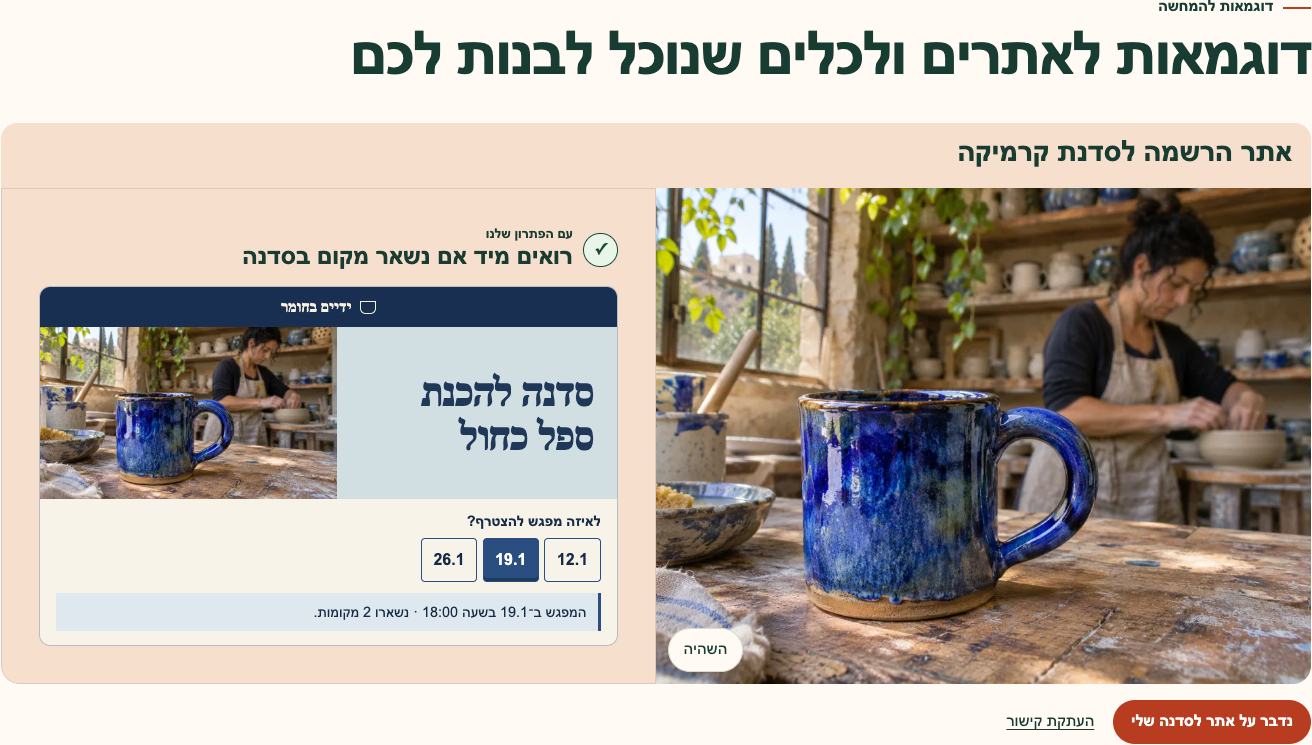
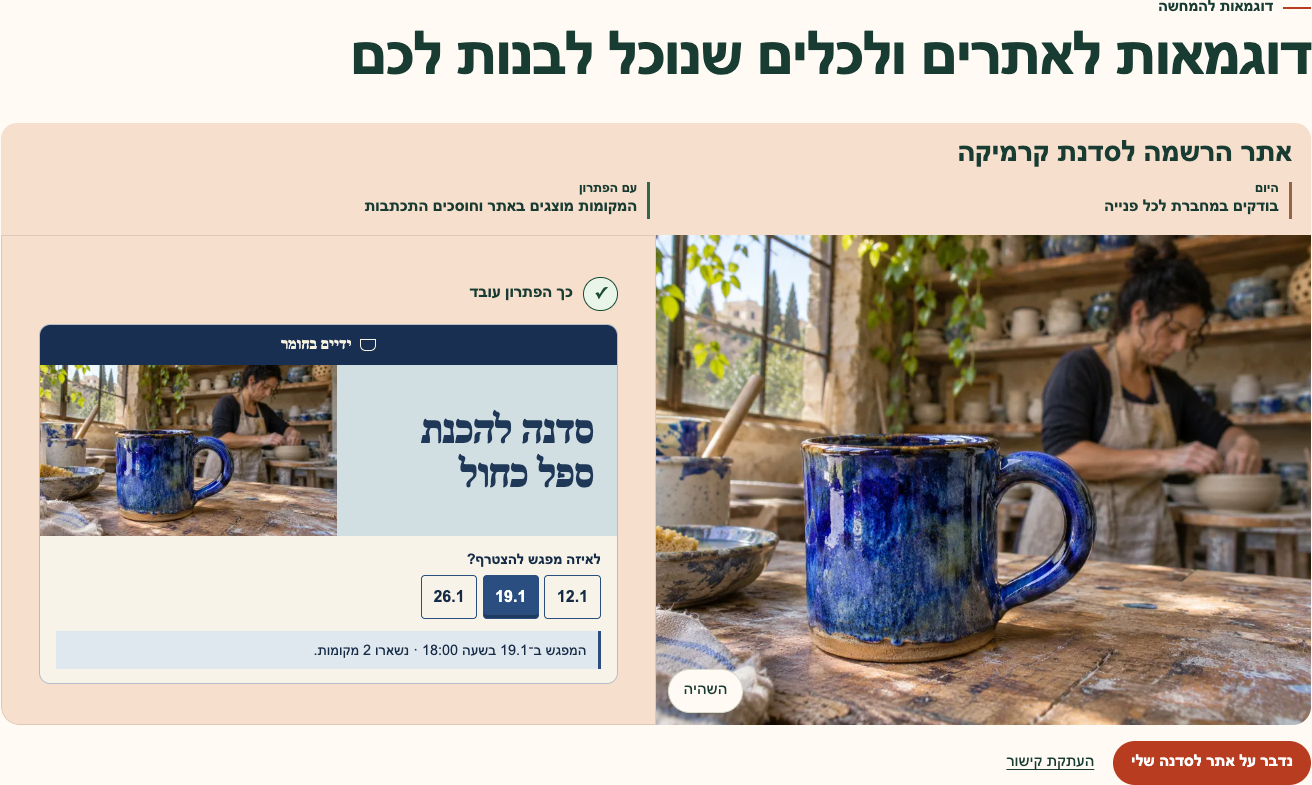
Keep the problem and business benefit visible throughout each gallery story

diff --git a/dist/gallery-stories.js b/dist/gallery-stories.js
@@ -281,76 +281,76 @@
   window.RABEN_STORIES = [
     {
       id: 'ceramics', category: 'clients', title: 'אתר הרשמה לסדנת קרמיקה',
-      ...problem('chat', 'הודעות לסטודיו', 'כל הרשמה מתחילה בהתכתבות', 'רואים מיד אם נשאר מקום בסדנה', [
+      ...problem('chat', 'הודעות לסטודיו', 'בודקים במחברת לכל פנייה', 'המקומות מוצגים באתר וחוסכים התכתבות', [
         ['רוני', 'יש מקום לשניים ב־19.1?'],
         ['בעלת הסטודיו', 'רגע, אני בודקת במחברת.']
       ]),
-      alt: 'ספל קרמיקה בזיגוג כחול בסטודיו', caption: 'המשתתפים רואים באילו מפגשים נשאר מקום. לבעלת הסדנה יש פחות הודעות לענות עליהן לפני כל הרשמה.',
+      alt: 'ספל קרמיקה בזיגוג כחול בסטודיו',
       cta: 'נדבר על אתר לסדנה שלי', kind: website, interest: 'אתר לסדנה עם בחירת מועד', ...pottery
     },
     {
       id: 'bakery', category: 'clients', title: 'עמוד להזמנת עוגה ממאפייה ביתית',
-      ...problem('note', 'פתק הזמנה על השיש', 'כל עוגה דורשת בירור מחיר', 'הגודל והמחיר ברורים עוד לפני הפנייה', [
+      ...problem('note', 'פתק הזמנה על השיש', 'מחשבים גודל ומחיר לכל פנייה', 'הלקוחות רואים מחיר לפי מספר האורחים', [
         ['יום הולדת', 'עוגת תותים ל־12 אורחים'],
         ['נשאר לברר', 'איזה קוטר? וכמה זה יעלה?']
       ]),
-      alt: 'עוגת תותים במאפייה', caption: 'הלקוחות בוחרים לכמה אורחים מיועדת העוגה ורואים מיד את הגודל והמחיר, עוד לפני שפונים לאופה.',
+      alt: 'עוגת תותים במאפייה',
       cta: 'נדבר על אתר למוצרים שלי', kind: website, interest: 'עמוד מוצרים עם בחירת גודל ומחיר', ...cake
     },
     {
       id: 'guitar', category: 'clients', title: 'אתר לקביעת שיעור גיטרה',
-      ...problem('diary', 'היומן של המורה', 'קשה לתאם שיעור לשניים', 'שעות פנויות לשיעור זוגי מופיעות מיד', [
+      ...problem('diary', 'היומן של המורה', 'מחליפים הודעות כדי למצוא שעה', 'התלמידים מוצאים שעה פנויה ביומן', [
         ['שני, 16:00', 'שיעור אישי'],
         ['שיעור ראשון בזוג', 'איזה ערב פנוי לשנינו?']
       ]),
-      alt: 'גיטרה בשיעור נגינה', caption: 'התלמידים בוחרים סוג שיעור ורואים מתי המורה פנוי. כך קל למצוא שעה שמתאימה לשני הצדדים.',
+      alt: 'גיטרה בשיעור נגינה',
       cta: 'נדבר על אתר לשיעורים שלי', kind: website, interest: 'אתר לשיעורים עם הצגת שעות פנויות', ...lesson
     },
     {
       id: 'technician', category: 'work', title: 'יומן ביקורי בית לטכנאית',
-      ...problem('diary', 'דף הביקורים ברכב', 'הביקור הבא מסתתר בהודעות', 'מסיימים תיקון ורואים מיד לאן להמשיך', [
+      ...problem('diary', 'דף הביקורים ברכב', 'מחפשים בהודעות את פרטי הביקור', 'פרטי הביקור הבא כבר ביומן', [
         ['09:00 · לוי', 'מכונת הכביסה תוקנה ✓'],
         ['משפחת כהן', 'השעה בהודעה קולית. איזו משאבה צריך לבדוק?']
       ]),
-      alt: 'טכנאית בודקת מכונת כביסה בביקור בית', caption: 'בסיום תיקון הטכנאית מסמנת שהביקור הושלם. היומן מראה לה לאן להמשיך ובאיזו שעה להגיע.',
+      alt: 'טכנאית בודקת מכונת כביסה בביקור בית',
       cta: 'נדבר על יומן לעבודה שלי', kind: tool, interest: 'יומן לניהול ביקורים בשטח', ...visits
     },
     {
       id: 'community', category: 'work', title: 'מעקב אחרי פניות למרכז קהילתי',
-      ...problem('inbox', 'פתק לחילופי משמרת', 'לא ברור למי כבר חזרו', 'רק הפניות שמחכות למענה נשארות ברשימה', [
+      ...problem('inbox', 'פתק לחילופי משמרת', 'בכל משמרת בודקים למי כבר חזרו', 'הצוות רואה בדיוק למי נשאר לחזור', [
         ['נועה · ציור', 'מחכה לפרטי הרשמה'],
         ['יואב · כדורגל', 'דיברנו איתו אתמול?'],
         ['סיוון · מחול', 'שאלה אם נשאר מקום']
       ]),
-      alt: 'פעילות במרכז קהילתי', caption: 'כשמתחלפת משמרת, הצוות רואה אילו הורים עדיין מחכים לתשובה על חוג ולמי כבר חזרו.',
+      alt: 'פעילות במרכז קהילתי',
       cta: 'נדבר על מעקב אחרי פניות', kind: tool, interest: 'מעקב אחרי פניות שממתינות לתשובה', ...inbox
     },
     {
       id: 'volunteer', category: 'work', title: 'לוח משימות לחלוקת סלי מזון',
-      ...problem('chat', 'קבוצת החלוקה', 'ארגזי הירקות מחכים לאיסוף', 'כולם רואים מי אחראי לאיסוף', [
+      ...problem('chat', 'קבוצת החלוקה', 'מבררים בקבוצה מי יאסוף את הארגזים', 'שם המתנדב מופיע ליד המשימה', [
         ['רכזת החלוקה', 'מי אוסף את הארגזים בחמישי ב־17:00?'],
         ['יעל', 'אני בחלוקה. מישהו לקח את האיסוף?']
       ]),
-      alt: 'מתנדבים עם ארגזי ירקות לחלוקה', caption: 'הרכזת משבצת מתנדב לאיסוף ארגזים. כולם רואים מי אחראי ומה עוד נשאר לעשות.',
+      alt: 'מתנדבים עם ארגזי ירקות לחלוקה',
       cta: 'נדבר על שיבוץ בצוות שלי', kind: tool, interest: 'כלי לשיבוץ מתנדבים ומשמרות', ...assign
     },
     {
       id: 'study', category: 'ideas', title: 'אפליקציה למציאת שותף ללימוד',
-      ...problem('note', 'מודעות לשותפים ללימוד', 'המקצוע מתאים אבל השעה לא', 'מוצאים שותף לאנגלית שפנוי בערב', [
+      ...problem('note', 'מודעות לשותפים ללימוד', 'מחפשים שותף בין מודעות לא מתאימות', 'מקבלים התאמה לפי מקצוע ושעה', [
         ['אנגלית', 'אפשר לתרגל איתי בבוקר'],
         ['פנוי בערב', 'מחפש שותף למתמטיקה']
       ]),
-      alt: 'חוברת תרגול אנגלית במפגש לימוד', caption: 'רוצים לתרגל אנגלית בערב? האפליקציה מציעה מישהו שרוצה ללמוד אותו דבר ופנוי באותן שעות.',
+      alt: 'חוברת תרגול אנגלית במפגש לימוד',
       cta: 'נדבר על הרעיון שלי', kind: product, interest: 'אפליקציה להתאמה בין אנשים', ...match
     },
     {
       id: 'hiking', category: 'ideas', title: 'כלי לבחירת מועד לטיול עם חברים',
-      ...problem('chat', 'קבוצת הטיול', 'קשה לספור מי מגיע באיזה יום', 'רואים מיד אם יש יום מוביל או תיקו', [
+      ...problem('chat', 'קבוצת הטיול', 'סופרים תשובות בצ׳אט ביד', 'ההצבעה מסכמת כמה פנויים בכל יום', [
         ['טל', 'לי מתאים שישי'],
         ['אורי', 'כתבתי חמישי, בעצם שבת'],
         ['דנה', 'אז כמה אנחנו בכל יום?']
       ]),
-      alt: 'מטיילים נעזרים במפת שבילים', caption: 'כל אחד מצביע ליום שנוח לו. הקבוצה רואה איזה יום מתאים לרוב החברים וחוסכת את ספירת התשובות בצ׳אט.',
+      alt: 'מטיילים נעזרים במפת שבילים',
       cta: 'נדבר על כלי לקבוצה שלי', kind: product, interest: 'רעיון להצבעות ותיאום בקבוצה', ...poll
     }
   ];

diff --git a/dist/index.html b/dist/index.html
@@ -97,7 +97,10 @@
       <article aria-labelledby="current-story-title">
         <header class="story-intro">
           <h3 data-gallery-title id="current-story-title"></h3>
-          <p class="journey-sr" data-gallery-caption></p>
+          <dl class="story-change">
+            <div><dt>היום</dt><dd data-gallery-issue></dd></div>
+            <div><dt>עם הפתרון</dt><dd data-gallery-outcome></dd></div>
+          </dl>
         </header>
         <div class="gallery-pair">
           <div class="gallery-picture">
@@ -106,11 +109,11 @@
           </div>
           <div class="gallery-stage phase-stage">
             <div class="phase-frame phase-before">
-              <div class="phase-heading"><span class="phase-symbol" aria-hidden="true">?</span><div><small>לפני</small><h4 data-gallery-issue></h4></div></div>
+              <div class="phase-heading"><span class="phase-symbol" aria-hidden="true">?</span><strong>כך זה נראה היום</strong></div>
               <div data-gallery-problem></div>
             </div>
             <div class="phase-frame phase-after">
-              <div class="phase-heading"><span class="phase-symbol" aria-hidden="true">✓</span><div><small>עם הפתרון שלנו</small><h4 data-gallery-outcome></h4></div></div>
+              <div class="phase-heading"><span class="phase-symbol" aria-hidden="true">✓</span><strong>כך הפתרון עובד</strong></div>
               <div data-gallery-demo></div>
             </div>
           </div>
@@ -125,7 +128,10 @@
     <div data-gallery-static>
       <header class="story-intro">
         <h3>אתר הרשמה לסדנת קרמיקה</h3>
-
+          <dl class="story-change">
+            <div><dt>היום</dt><dd>בודקים במחברת לכל פנייה</dd></div>
+            <div><dt>עם הפתרון</dt><dd>המקומות מוצגים באתר וחוסכים התכתבות</dd></div>
+          </dl>
       </header>
       <div class="gallery-pair">
         <div class="gallery-picture"><img loading="lazy" src="assets/gallery/ceramics-small.webp" width="460" height="345" alt="ספל עם זיגוג כחול על שולחן העבודה בסדנת קרמיקה"></div>

diff --git a/dist/gallery.css b/dist/gallery.css
@@ -21,7 +21,25 @@
   background: var(--stage);
   border-radius: 1rem 1rem 0 0;
 }
-.story-intro p { margin-block-start: .35rem; line-height: 1.5; max-width: 70ch; text-wrap: pretty; }
+.story-change {
+  display: grid;
+  grid-template-columns: repeat(2, minmax(0, 1fr));
+  gap: .7rem;
+  margin: .65rem 0 0;
+}
+.story-change > div { padding-inline-start: .65rem; border-inline-start: 3px solid #946446; }
+.story-change > div:last-child { border-color: #2f6750; }
+.story-change dt { font-size: .83rem; font-weight: 700; }
+.story-change dd { margin: .15rem 0 0; line-height: 1.3; font-weight: 600; text-wrap: pretty; }
+@media (max-width: 720px) and (min-height: 460px) {
+  [data-gallery-enhanced] article > .story-intro {
+    position: sticky;
+    inset-block-start: 0;
+    z-index: 2;
+    border-bottom: 1px solid var(--stage-rule);
+  }
+  #story-gallery :is(button, a) { scroll-margin-block-start: 10rem; }
+}
 .gallery-play {
   position: absolute;
   inset-inline-end: .75rem;
@@ -73,8 +91,7 @@
 .phase-stage { align-items: center; }
 .phase-frame { grid-area: 1 / 1; min-width: 0; }
 .phase-heading { display: flex; align-items: center; gap: .65rem; margin-block-end: .8rem; }
-.phase-heading small { font-weight: 700; }
-.phase-heading h4 { margin: .12rem 0 0; font-size: clamp(1.1rem, 2vw, 1.55rem); line-height: 1.15; }
+.phase-heading strong { font-size: 1rem; }
 .phase-symbol { display: grid; place-items: center; width: 2.15rem; aspect-ratio: 1; flex: none; border: 1px solid; font-weight: 700; }
 .phase-before .phase-symbol { color: #78391e; background: #fff6e7; border-radius: .4rem; }
 .phase-after .phase-symbol { color: #174c32; background: #e8f5e8; border-radius: 50%; }

diff --git a/tests/gallery.browser.js b/tests/gallery.browser.js
@@ -38,11 +38,20 @@ async previewTab => {
       assert(await gallery.getAttribute('data-phase') === 'problem', 'Missing initial problem: ' + id);
       assert(await control('problem').isVisible() && !await control('demo').isVisible(), 'Problem frame not isolated: ' + id);
       assert((await control('problem').innerText()).trim().length > 0, 'Problem is empty: ' + id);
+      const issue = await control('issue').innerText();
+      const gain = await control('outcome').innerText();
+      assert(issue.trim() && gain.trim(), 'Missing always-visible comparison: ' + id);
       const before = await control('demo').textContent();
       await page.clock.runFor(3200);
       assert(await gallery.getAttribute('data-phase') === 'solution', 'Solution not revealed: ' + id);
       assert(await control('demo').isVisible() && !await control('problem').isVisible(), 'Solution frame not isolated: ' + id);
       assert(await control('demo').textContent() !== before, 'No automatic result: ' + id);
+      await control('demo').evaluate(node => window.scrollBy({top:node.getBoundingClientRect().top - 180, behavior:'instant'}));
+      for (const [key, value] of [['issue', issue], ['outcome', gain]]) {
+        const box = await control(key).boundingBox();
+        assert(box && box.y >= 0 && box.y + box.height <= 904 && await control(key).innerText() === value,
+          'Comparison lost midway through ' + id);
+      }
       await page.clock.runFor(5800);
     }
     assert(await gallery.getAttribute('data-story') === stories[0], 'Automatic loop did not wrap');

diff --git a/dist/gallery.js b/dist/gallery.js
@@ -156,8 +156,6 @@
     gallery.dataset.category = story.category;
     gallery.dataset.story = story.id;
     find('title').textContent = story.title;
-    const caption = find('caption');
-    if (caption) caption.textContent = story.caption;
     if (issue) issue.textContent = story.issue;
     if (outcome) outcome.textContent = story.outcome;
     if (problem) story.renderProblem(problem);

diff --git a/README.md b/README.md
@@ -1,6 +1,6 @@
 # RABEN · הסטודיו של רז ובן
 
-אתר בעברית לעיצוב ופיתוח אתרים, כלים לעבודה ומוצרים דיגיטליים. במסך הפתיחה מופיע טופס לבקשת שיחה עם רז ובן. אפשר גם לפנות אליהם בהודעה באינסטגרם. גלריית „דוגמאות לאתרים ולכלים שנוכל לבנות לכם” מציגה שמונה דוגמאות להמחשה. לצד הצילום מופיעה הבעיה של בעל העסק, למשל שתי הודעות שמבקשות את אותו מועד. אחר כך מופיע הכלי בפעולה עם התוצאה. העמוד כתוב ב־HTML, CSS ו־JavaScript ופועל ללא שלב בנייה.
+אתר בעברית לעיצוב ופיתוח אתרים, כלים לעבודה ומוצרים דיגיטליים. במסך הפתיחה מופיע טופס לבקשת שיחה עם רז ובן. אפשר גם לפנות אליהם בהודעה באינסטגרם. גלריית „דוגמאות לאתרים ולכלים שנוכל לבנות לכם” מציגה שמונה דוגמאות להמחשה. מעל הצילום מופיעה השוואה קצרה בין המצב היום לבין התועלת מהפתרון. בנייד היא נשארת בראש המסך בזמן הגלילה בתוך הדוגמה. אחר כך מופיע הכלי בפעולה עם התוצאה. העמוד כתוב ב־HTML, CSS ו־JavaScript ופועל ללא שלב בנייה.
 
 ![מסך הבית במחשב](docs/screenshots/desktop.png)
 
